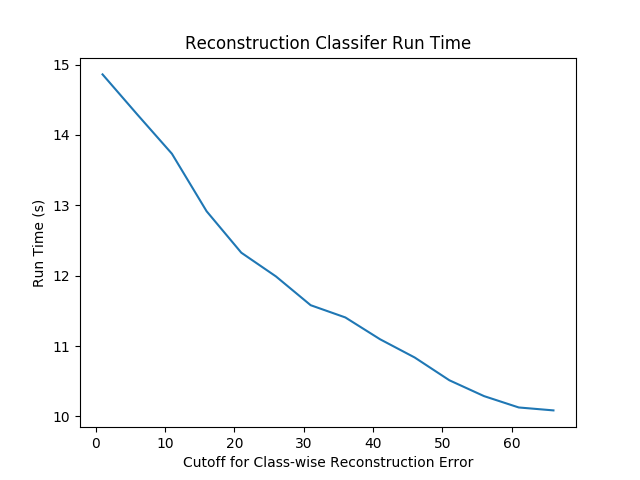
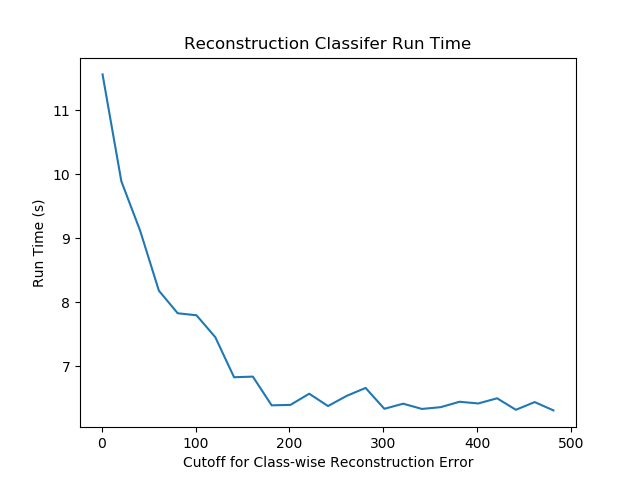
added comments to LDA

diff --git a/Coursework 1/lda.py b/Coursework 1/lda.py
@@ -8,32 +8,48 @@ import copy
 from pre_process import sort_eigenvalues_eigenvectors
 from sklearn.model_selection import train_test_split
 
+from pre_process_raw import load_data
+
 class LDA:
     def __init__(self,dataset_filename='data/face.mat',LOAD=False):
 
         # Dataset
-        self.dataset = {'train_x': [], 'train_y': [], 'test_x': [], 'test_y': []}
+        # - Stores the raw dataset
+        # - note, don't remove mean or anything from this data
+        self.dataset = {
+            'train_x': [],
+            'train_y': [],
+            'test_x': [],
+            'test_y': []
+        }
 
         # Training Data class seperation
+        # { 'class 1' : [ images of class 1 ], etc ... }
         self.train_class_data = {}
+        # Stores mean of each class
+        # { 'class 1' : class 1 mean, 'class 2': class 2 mean, etc ... }
         self.train_class_mean = {}
 
         # Total mean
+        # - mean of training set
         self.total_mean = []
 
         # Projection Matrices
-        self.w_pca = []
-        self.w_lda = []
-        self.w_opt = []
+        self.w_pca = [] # pca vector
+        self.w_lda = [] # lda vector
+        self.w_opt = [] # optimal vector which combines both
 
         # Model HyperParameters
+        # NOTE: M_lda < M_pca and M_pca < N
         self.M_pca = 50
         self.M_lda = 50
 
         # Load data
+        # note - gets dataset for faces (CW 1)
         if LOAD:
             self.get_dataset(dataset_filename)
 
+    # NOT NEEDED
     def get_normal_dataset(self,data,labels):
         for i in range(data.shape[1]):
             label = labels[i][0]
@@ -42,10 +58,12 @@ class LDA:
 
         return data
 
+    # splits dataset between classes and gets mean
     def run_setup(self):
         self.split_classes()
         self.get_mean()
 
+    # gets both class mean and total mean
     def get_mean(self):
         # get Total Mean
         self.total_mean = copy.deepcopy(self.dataset['train_x']).mean(axis=1).reshape(-1,1)
@@ -54,6 +72,7 @@ class LDA:
         for label in self.train_class_data:
             self.train_class_mean[label] = copy.deepcopy(self.train_class_data[label]).mean(axis=1).reshape(-1,1)
 
+    # seperates classes
     def split_classes(self):
         # Get all class labels
         #labels = set(self.dataset['train_y'].tolist())
@@ -69,6 +88,7 @@ class LDA:
             # Select class from those indices
             self.train_class_data[label] = copy.deepcopy(self.dataset['train_x'][:,indices])
 
+    # simple function to get size of each class in training set
     def get_class_sizes(self):
 
         class_sizes = {}
@@ -78,6 +98,7 @@ class LDA:
 
         return class_sizes
 
+    # gets a dataset from a .mat file and does 80-20 split
     def get_dataset(self,filename):
         # Load data from file
         X, [y] = load_mat(filename)
@@ -109,6 +130,7 @@ class LDA:
         # Get total mean
         self.total_mean = copy.deepcopy(self.dataset['train_x']).mean(axis=1).reshape(-1,1)
 
+    # helper function to compute efficient co-varaince eigenvalue decomposition
     def compute_covariance_decomposition(self, matrix):
         A = copy.deepcopy(matrix)
         cov = (1/matrix.shape[0]) * np.dot(A.T, A)
@@ -123,25 +145,27 @@ class LDA:
         # return eigenvectors and eigenvalues
         return sort_eigenvalues_eigenvectors( eigenvalues, eigenvectors )
 
+    # helper function to get eigenvalue decomposition of matrix
     def eigenvalue_decomposition(self, matrix):
         A = copy.deepcopy(matrix)
-
         # Compute Eigenvalues and Eigenvectors
         eigenvalues, eigenvectors = np.linalg.eig(A)
-
         # return eigenvectors and eigenvalues
         return sort_eigenvalues_eigenvectors( eigenvalues, eigenvectors )
 
+    # helper function to compute co-variance
     def compute_covariance(self,matrix):
         A = copy.deepcopy(matrix)
         return np.dot(A,A.T)
 
+    # get's PCA (DEPRECIATED)
     def get_pca(self, M_pca):
         # get eigenvalue decomposition of total covariance matrix (X - Xbar)
         eigenvalues, eigenvectors = self.compute_covariance_decomposition(copy.deepcopy(self.dataset['train_x']) - self.total_mean)
         # set M eigenvectors to be w_pca
         self.w_pca = copy.deepcopy(eigenvectors[:,:min(M_pca,eigenvectors.shape[1])])
         return self.w_pca
+
 
     def project_matrix(self,matrix,vec):
         return np.dot(
@@ -150,7 +174,20 @@ class LDA:
                 copy.deepcopy(matrix),
                 copy.deepcopy(vec)))
 
+    # IMPORTANT : function to do PCA-LDA transformation
+    def transform(self,X):
+        return copy.deepcopy(np.dot(
+                copy.deepcopy(X.T),
+                copy.deepcopy(self.w_opt)
+            ))
+
+    # IMPORTANT : Equivalent of 'fit' function
     def run_pca_lda(self,m_pca_type=0,m_lda_type=0): # 0 - single value, 1 - list
+
+        if m_pca_type == 0:
+            assert(self.M_pca < self.dataset['train_x'].shape[1]), 'M PCA must be less than N'
+        if m_lda_type == 0:
+            assert(self.M_lda <= self.M_pca), ' M LDA can\'t be greater than M PCA'
 
         # PCA
         # get eigenvalue decomposition of total covariance matrix (X - Xbar)
@@ -249,6 +286,27 @@ class LDA:
         return err/len(labels)
 
 if __name__ == '__main__':
-    lda = LDA(LOAD=True)
+
+    # EXAMPLE SCRIPT
+
+    # load your dataset
+    dataset = load_data() # contains train_x, train_y, test_x, test_y
+
+    lda = LDA() # initialise lda class
+    lda.dataset['train_x'] = dataset['train_x']
+    lda.dataset['train_y'] = dataset['train_y']
+    lda.dataset['test_x']  = dataset['test_x']
+    lda.dataset['test_y']  = dataset['test_y']
+
+    # setup the class seperation and class means
+    lda.run_setup()
+
+    # Select number of vectors for PCA and LDA
+    lda.M_pca = 150 # TODO: change for dataset
+    lda.M_lda = 40  # TODO: change for datset
+
+    # fit the subspace
     lda.run_pca_lda()
-    lda.run_nn_classifier()
+
+    # get the transformed data
+    test_x_transform = lda.transform(dataset['test_x'])

diff --git a/Coursework 1/q1-2.py b/Coursework 1/q1-2.py
@@ -6,6 +6,7 @@ import copy
 
 from pre_process import load_data
 from eigenfaces import EigenFace
+from profiling import get_process_memory
 
 def main():
 
@@ -18,8 +19,9 @@ def main():
     #err, y_pred = eigenface.run_reconstruction_classifier()
 
     M = np.arange(0,400,25)
+    M = np.arange(0,200,25)
 
-
+    '''
 
     ########################
     # RECONSTRUCTION ERROR #
@@ -111,28 +113,39 @@ def main():
     plt.savefig("results/q1-2/reconstruction_comparison.png", format="png", transparent=True)
     #plt.show()
 
+    '''
+
     ############
     # NN ERROR #
     ############
 
     err = []
     run_time = []
+    mem_consumption = []
     for m in M:
         print(m)
         eigenface.M = m
         start = time.time()
         err.append(eigenface.run_nn_classifier()[0])
         end = time.time()
+        mem= get_process_memory()
+        mem_consumption.append(mem)
         run_time.append(end-start)
 
     # Run Time
-    plt.figure()
-    plt.plot(M,run_time)
-    plt.ylabel('Run Time (s)')
-    plt.xlabel('Number of Eigenvectors')
-    plt.title('Nearest Neighbour Classifer Run Time')
-    plt.savefig("results/q1-2/nn_run_time.png", format="png", transparent=True)
+    fig, ax1 = plt.subplots()
+    ax1.plot(M,run_time)
+    ax1.set_ylabel('Run Time (s)')
+    ax1.set_xlabel('Number of Eigenvectors')
 
+    # Memory Consumption
+    ax2 = ax1.twinx()
+    ax2.plot(M,mem_consumption,'r')
+    ax2.set_ylabel('Memory Consumption (%)')
+
+    fig.tight_layout()
+    plt.title('Nearest Neighbour Classifer Run Time & Memory Consumption')
+    plt.savefig("results/q1-2/nn_run_time_and_mem.png", format="png", transparent=True)
 
     # Error
     plt.figure()
@@ -182,7 +195,7 @@ def main():
 
     err = []
     run_time = []
-    err_cutoff = np.arange(1,70,5)
+    err_cutoff = np.arange(1,500,20)
     for e in err_cutoff:
         start = time.time()
         err.append(eigenface.run_reconstruction_classifier(err_min=e)[0])
@@ -205,7 +218,7 @@ def main():
     plt.title('Reconstruction Classifer Error')
     plt.savefig("results/q1-2/reconstruction_classifier_error.png", format="png", transparent=True)
 
-    
+
 
 
     #########################

diff --git a/Coursework 1/q3.py b/Coursework 1/q3.py
@@ -11,9 +11,6 @@ from sklearn.decomposition import PCA
 from sklearn.discriminant_analysis import LinearDiscriminantAnalysis
 from sklearn.neighbors import NearestNeighbors
 
-from sklearn import datasets
-
-
 from pre_process_raw import load_data
 from lda import LDA
 
@@ -130,16 +127,14 @@ def main():
     ######################
 
     # Evaluate for different M_pca
-    M_pca = np.arange(1,400,10)
-    M_lda = np.arange(1,400,10)
+    M_pca = np.arange(75,201,25)
+    M_lda = np.arange(20,76,10)
 
-    x = []
-    y = []
-    z = []
+    err_results = [ [] for m in M_lda ]
+    lda_index = 0
 
     for m_lda in M_lda:
         for m_pca in M_pca:
-
             if m_lda > m_pca:
                 continue
 
@@ -158,17 +153,15 @@ def main():
 
             print("M PCA: {}, M LDA: {}, ERROR: {}".format(m_pca,m_lda,err))
 
-            x.append(m_pca)
-            y.append(m_lda)
-            z.append(err)
+            err_results[lda_index].append(err)
+
+        lda_index += 1
 
     fig = plt.figure()
-    ax = fig.add_subplot(111, projection='3d')
-    ax.set_xlabel('M PCA')
-    ax.set_ylabel('M LDA')
-    ax.set_zlabel('ERROR (%)')
-    ax.set_title('Error of PCA-LDA-NN classifier against number of eigenvectors')
-    ax.scatter(x,y,z)
+    legends = [ '' for i in range(len(err_results)) ]
+    for i in range(len(err_results)):
+        legends[i], = plt.plot(M_pca,err_results[i],label='M lda = {}'.format(M_lda[i]))
+    plt.legend(handles=legends)
     plt.show()
 
     '''

diff --git a/Coursework 1/q1-1.py b/Coursework 1/q1-1.py
@@ -46,7 +46,7 @@ def main():
     mean = mean.reshape((46,56))
     mean = np.rot90(mean,3)
     plt.imshow(mean, cmap="gray")
-    plt.savefig("results/q1/mean.png", format="png", transparent=True)
+    plt.savefig("results/q1/mean.png", format="png", transparent=True) # TODO: add eigenface also
 
     D, N = X_train.shape
     start = time.time()

diff --git a/Coursework 1/profiling.py b/Coursework 1/profiling.py
@@ -1,0 +1,7 @@
+import time
+import os
+import psutil
+
+def get_process_memory():
+    process = psutil.Process(os.getpid())
+    return process.memory_percent()
